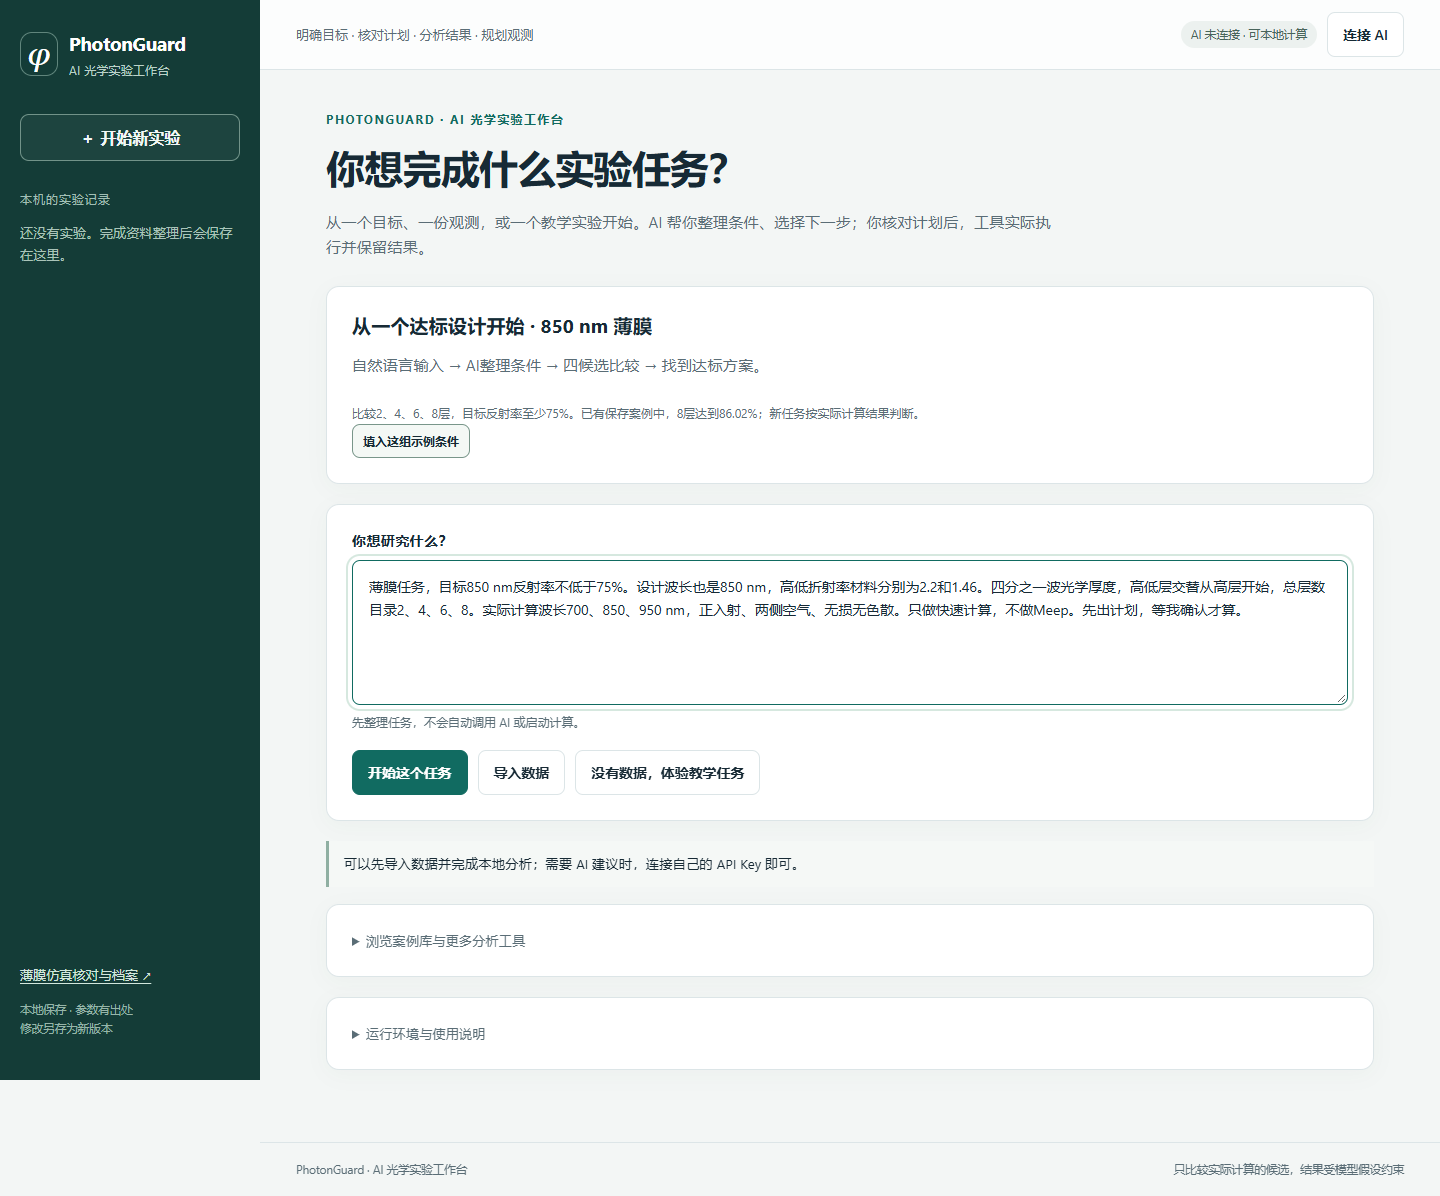
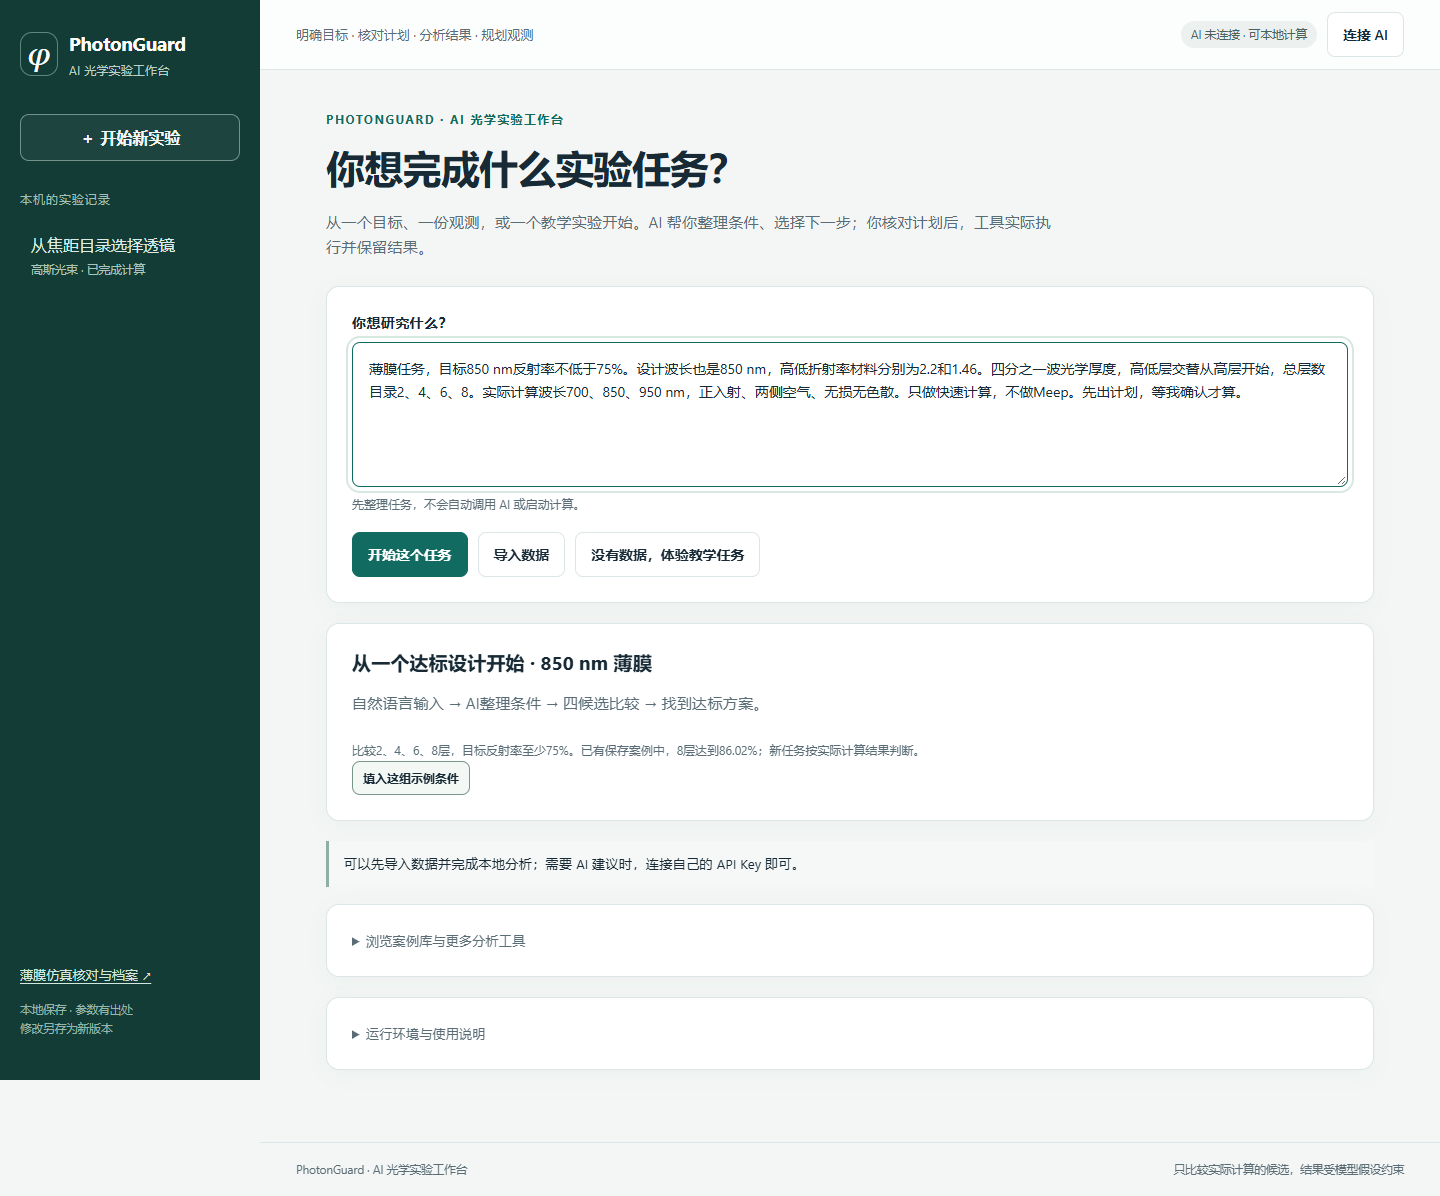
Place experiment input above the example on the home page

Changed region(s): [[0.2188, 0.4022, 0.9375, 0.6806], [0.2188, 0.2475, 0.9375, 0.3712], [0.0, 0.1856, 0.1562, 0.2475]]

diff --git a/app/source/photonguard/workflow_assets/experiments.js b/app/source/photonguard/workflow_assets/experiments.js
@@ -546,8 +546,8 @@
     q.addEventListener('input',()=>{const bad=credentialLike(q.value);begin.disabled=busy||!q.value.trim()||bad;if(bad){clear('new-draft');hint.textContent='检测到疑似密钥，请移除后再保存。';}else{save('new-draft',{text:q.value});hint.textContent='先整理任务，不会自动调用 AI 或启动计算。';}});
     const example=card('从一个达标设计开始 · 850 nm 薄膜');
     append(example,node('p','自然语言输入 → AI整理条件 → 四候选比较 → 找到达标方案。','lead'),node('p','比较2、4、6、8层，目标反射率至少75%。已有保存案例中，8层达到86.02%；新任务按实际计算结果判断。','field-note'),button('填入这组示例条件',()=>{q.value=SUCCESS_EXAMPLE;q.dispatchEvent(new Event('input'));q.focus();},'small'));
-    host.append(example);
-    append(box,label,q,hint,append(node('div',null,'actions'),begin,button('导入数据',()=>taskDataForm(branch,q.value),''),button('没有数据，体验教学任务',()=>{const teaching=card('选择一个教学任务');append(teaching,node('p','采用公开教学条件和独立冻结的模拟对象；不是仪器观测。条件在分析前集中核对。'),button('高斯 · 安排5次补测',()=>startTask({text:q.value.trim()||'高斯教学：已有数据，只有5次测量机会，束腰位置优先',model:INV_GAUSS,teaching:true},feedback),'small'),button('薄膜 · 选择补测波长',()=>startTask({text:q.value.trim()||'薄膜教学：只有633、660、780 nm三个可用波长，区分厚度候选',model:'single_film_known_index_v1',teaching:true},feedback),'small'),button('双缝 · 修改观测约束',()=>startTask({text:q.value.trim()||'双缝教学：缝宽优先，保护缝距，补采71个点，最大行程4 mm',model:INV_SLIT,teaching:true},feedback),'small'));branch.replaceChildren(teaching);},'')),branch);host.append(box);
+
+    append(box,label,q,hint,append(node('div',null,'actions'),begin,button('导入数据',()=>taskDataForm(branch,q.value),''),button('没有数据，体验教学任务',()=>{const teaching=card('选择一个教学任务');append(teaching,node('p','采用公开教学条件和独立冻结的模拟对象；不是仪器观测。条件在分析前集中核对。'),button('高斯 · 安排5次补测',()=>startTask({text:q.value.trim()||'高斯教学：已有数据，只有5次测量机会，束腰位置优先',model:INV_GAUSS,teaching:true},feedback),'small'),button('薄膜 · 选择补测波长',()=>startTask({text:q.value.trim()||'薄膜教学：只有633、660、780 nm三个可用波长，区分厚度候选',model:'single_film_known_index_v1',teaching:true},feedback),'small'),button('双缝 · 修改观测约束',()=>startTask({text:q.value.trim()||'双缝教学：缝宽优先，保护缝距，补采71个点，最大行程4 mm',model:INV_SLIT,teaching:true},feedback),'small'));branch.replaceChildren(teaching);},'')),branch);host.append(box,example);
     append(host,node('p',boot.ai?.live_enabled?'AI 已连接。发送资料前，请核对本次内容。':'可以先导入数据并完成本地分析；需要 AI 建议时，连接自己的 API Key 即可。','inline-notice'));
     const library=append(node('details',null,'card'),node('summary','浏览案例库与更多分析工具'));renderLibrary(library);renderMissions(library);renderInverseImport(library);renderObservationImport(library);
     const legacy=card('正向仿真示例');boot.templates.forEach(t=>legacy.append(button(t.title,()=>create({kind:'teaching',template_id:t.id}),'small')));library.append(legacy);host.append(library);
